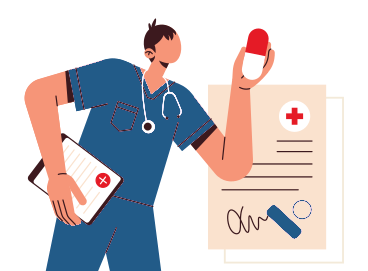
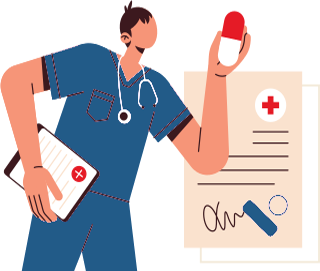
style: corrigido tamanho nas imagens da header

diff --git a/bulario-eletronico/src/Components/Header/index.jsx b/bulario-eletronico/src/Components/Header/index.jsx
@@ -4,11 +4,11 @@ import bg02 from "../../assets/bg02.png";
 export default function Header() {
   return (
     <div className="w-full flex justify-between items-end px-2 pt-4 bg-header  rounded-b-3xl">
-      <span>
+      <span className="max-w-[20%]">
         <img
           src={bg01}
           alt="Imagem da esquerda"
-          className="w-auto h-auto max-w-full"
+          className="w-auto max-h-[200px] max-w-[200px]"
         />
       </span>
 
@@ -16,11 +16,11 @@ export default function Header() {
         <span className="text-rose-700">bulário</span>
         <span className="text-sky-800">eletrônico</span>
       </h1>
-      <span>
+      <span className="max-w-[20%]">
         <img
           src={bg02}
           alt="Imagem da direita"
-          className="w-auto h-auto max-h-72 max-w-full"
+          className="w-auto max-h-[200px] max-w-[200px]"
         />
       </span>
     </div>
